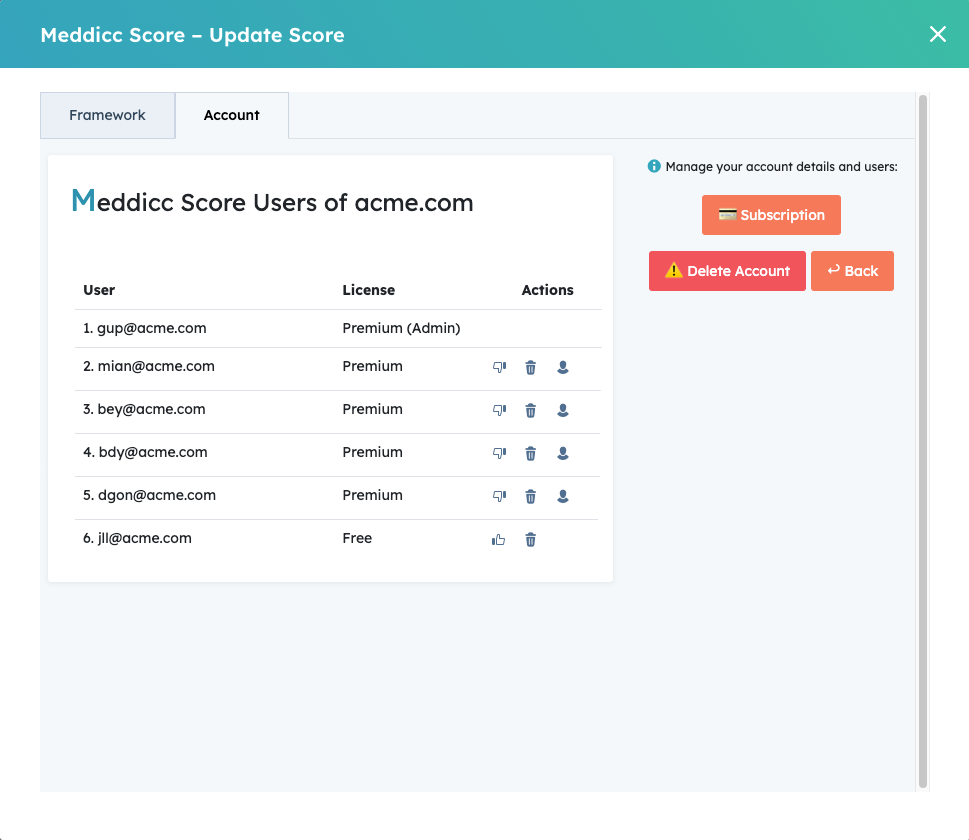
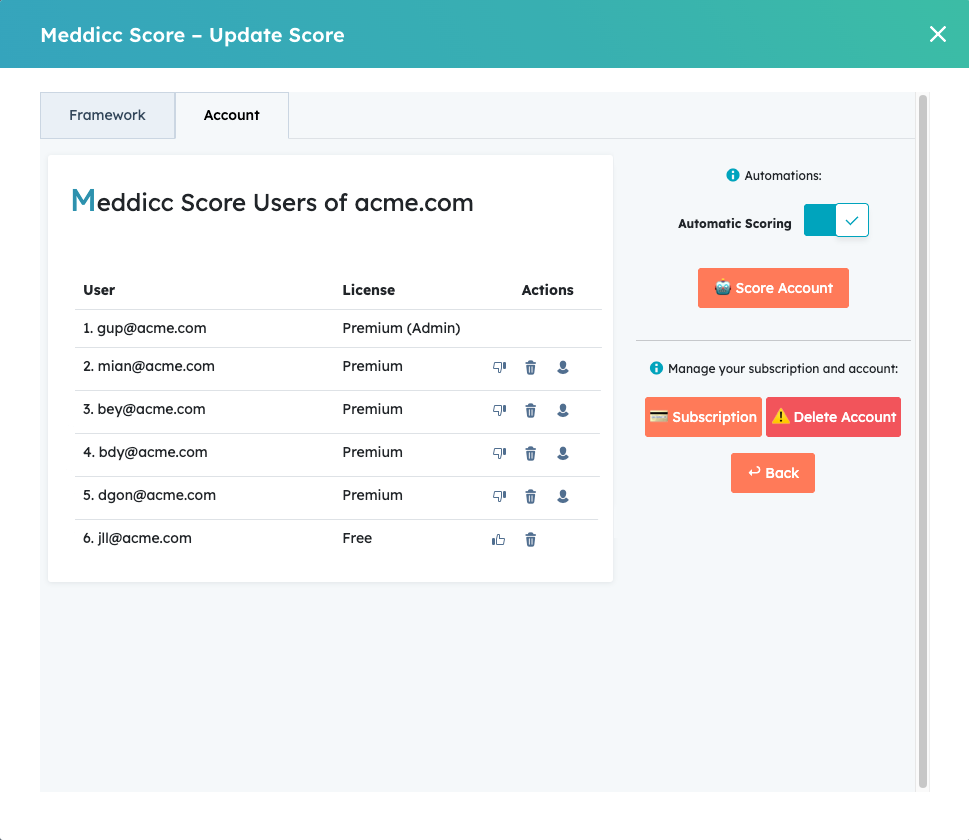
Automations

Changed region(s): [[0.6502, 0.1857, 0.9288, 0.3714], [0.6502, 0.4333, 0.9288, 0.5881]]

diff --git a/_includes/sidebar_resume.html b/_includes/sidebar_resume.html
@@ -3,31 +3,70 @@
   <ul>
     <li><a href="#start">Getting Started</a></li>
     <ul>
-      <li><a href="#connect-your-hubspot-account">1. Connect Your HubSpot Account</a></li>
-      <li><a href="#login-to-your-hubspot-account">2. Login to Your HubSpot Account</a></li>
-      <li><a href="#select-your-hubspot-account">3. Select Your HubSpot Account</a></li>
+      <li>
+        <a href="#connect-your-hubspot-account"
+          >1. Connect Your HubSpot Account</a
+        >
+      </li>
+      <li>
+        <a href="#login-to-your-hubspot-account"
+          >2. Login to Your HubSpot Account</a
+        >
+      </li>
+      <li>
+        <a href="#select-your-hubspot-account"
+          >3. Select Your HubSpot Account</a
+        >
+      </li>
       <li><a href="#confirm-permissions">4. Confirm Permissions</a></li>
     </ul>
     <li><a href="#using">Using the APP</a></li>
     <ul>
-      <li><a href="#access-from-sidebar">5. Access Meddicc Score from the HubSpot Sidebar</a></li>
+      <li>
+        <a href="#access-from-sidebar"
+          >5. Access Meddicc Score from the HubSpot Sidebar</a
+        >
+      </li>
       <li><a href="#begin-scoring">6. Begin Scoring</a></li>
       <li><a href="#change-framework">7. Change the Framework</a></li>
-      <li><a href="#editing-questions">8. Editing the framework questions and default framework</a></li>
+      <li>
+        <a href="#editing-questions"
+          >8. Editing the framework questions and default framework</a
+        >
+      </li>
       <li><a href="#manage-account">9. Manage your account</a></li>
-      <li><a href="#report-and-export">10. Report and Export</a></li>
-      <li><a href="#upgrade-to-premium">11. Upgrade to Premium</a></li>
-      <li><a href="#changeplan">12. Change my subscription plan</a></li>
+      <li><a href="#automations">10. Automations</a></li>
+
+      <li><a href="#report-and-export">11. Report and Export</a></li>
+      <li><a href="#upgrade-to-premium">12. Upgrade to Premium</a></li>
+      <li><a href="#changeplan">13. Change my subscription plan</a></li>
     </ul>
     <li><a href="#uninstalling">Uninstalling Meddicc Score</a></li>
-    <li><a href="#troubleshooting">Troubleshooting</a> </li>
+    <li><a href="#troubleshooting">Troubleshooting</a></li>
     <ul>
       <li><a href="#cannot-install-app">I can´t install the APP</a></li>
-      <li><a href="#i-cannot-see-score-as-a-custom-variable--the-score-in-hubspot-is-not-updated-automatically">Can't see Score property in HubSpot</a></li>
-      <li><a href="#the-ai-autofill-is-not-taking-information-from-my-emails">The AI Autofill is not taking information from my Emails</a></li>
-      <li><a href="#stage-report">The Stage is not correct on the report</a></li>
-      <li><a href="#how-can-add-a-discount-code">How can add a discount code</a></li>
-      <li><a href="#how-can-cancell-or-manage-my-subcription">Cancel or Change Subscription</a></li>
+      <li>
+        <a
+          href="#i-cannot-see-score-as-a-custom-variable--the-score-in-hubspot-is-not-updated-automatically"
+          >Can't see Score property in HubSpot</a
+        >
+      </li>
+      <li>
+        <a href="#the-ai-autofill-is-not-taking-information-from-my-emails"
+          >The AI Autofill is not taking information from my Emails</a
+        >
+      </li>
+      <li>
+        <a href="#stage-report">The Stage is not correct on the report</a>
+      </li>
+      <li>
+        <a href="#how-can-add-a-discount-code">How can add a discount code</a>
+      </li>
+      <li>
+        <a href="#how-can-cancell-or-manage-my-subcription"
+          >Cancel or Change Subscription</a
+        >
+      </li>
     </ul>
   </ul>
 </div>

diff --git a/_layouts/landing.html b/_layouts/landing.html
@@ -482,6 +482,7 @@
               <ul>
                 <li><span class="price-text-blue">&#10003;</span> View Meddicc Score</li>
                 <li><span class="price-text-blue">&#10003;</span> Unlimited deals with Score</li>
+                <li><span class="price-text-blue">&#10003;</span> Automations</li>
               </ul>
             </div>
           </div>
@@ -502,6 +503,7 @@
               <ul>
                 <li><span class="price-text-blue">&#10003;</span> View Meddicc Score</li>
                 <li><span class="price-text-blue">&#10003;</span> Unlimited deals with Score</li>
+                <li><span class="price-text-blue">&#10003;</span> Automations</li>
               </ul>
               <p class="text-center pb-1"> More than 10 users? <a href="mailto:meddiccscore@gmail.com" class="mt-1 price-contact">Contact us </a></p>
 

diff --git a/_posts/2023-01-01-setup-guide.md b/_posts/2023-01-01-setup-guide.md
@@ -161,16 +161,38 @@ Note: Comments to engagements are not gathered since they are not available thro
 <ul>
   <li>On the right side, there are different options:
     <ul>
-      <li><strong>Upgrade (only for Free users):</strong> Upgrade to premium plans.</li>
-      <li><strong>Manage Subscription (only for Admin paid users):</strong> Redirects to the Customer Portal where the user can update or cancel your paid subscription, or send a email to support is your subcription is Corporate. <a href="#how-can-cancell-or-manage-my-subcription">More information.</a></li>
-      <li><strong>Delete Account:</strong> Permanently deletes all MeddiccScore information (NOT the HubSpot Account) including deals, users, and account data. This action is irreversible, so be sure before proceeding. Please <a href="#how-can-cancell-or-manage-my-subcription">cancel your paid subscription</a> (if any) before deleting the account. Type "Delete Account" to confirm.</li>
+      <li><strong>Upgrade (Free users only):</strong> Upgrade your account to access premium features.</li>
+      <li><strong>Manage Subscription (Admin, paid users only):</strong> Opens the Customer Portal to update or cancel your subscription. For Corporate subscriptions, contact support by email. <a href="#how-can-cancell-or-manage-my-subcription">More information.</a></li>
+      <li><strong>Delete Account:</strong> Permanently deletes all MeddiccScore data (not your HubSpot account), including deals, users, and account information. This action cannot be undone. Please <a href="#how-can-cancell-or-manage-my-subcription">cancel any paid subscription</a> before deleting your account. Type "Delete Account" to confirm.</li>
+      <li><strong>Automations (Premium users only):</strong> Automate the scoring process. See the next section for details.</li>
     </ul>
   </li>
 </ul>
 
 <hr>
 
-<h4 class="pt-6-m mb-3 text-primary" id="report-and-export">10. Report and Export</h4>
+<h4 class="pt-6-m mb-3 text-primary" id="automations">10. Automations (Only Premium Admins)</h4>
+
+<ul>
+  <li>Automations help you streamline and automate the scoring process. They are only available for Premium users.</li>
+
+  <p class="text-center"><img src="../../assets/images/guide911.png" alt="Editing" class="my-3 w-50 border border-3 border-primary rounded rounded-3"></p>
+  <li>
+    <strong>Automatic Scoring:</strong> When enabled, this feature sets up a workflow so that every time a new engagement (Note, Meeting, Task, or Call) is logged in HubSpot, the Meddicc Score form is automatically re-filled with the latest information and rescored. Locked fields will not be changed, but unlocked fields and the overall score may be updated. Please note the following limitations due to the HubSpot API:
+    <ul>
+      <li>The Meddicc Card in the sidebar will not refresh automatically; it updates only when the entire deal is refreshed.</li>
+      <li>Automatic scoring is not triggered if an engagement is updated or deleted—only when a new engagement is created.</li>
+      <li>Automatic scoring does not trigger for new emails; it works only for Meetings, Calls, Tasks, or Notes.</li>
+    </ul>
+  </li>
+  <li>
+    <strong>Score Account:</strong> This option will trigger scoring for <b>all deals</b> in your account. <b>All previous information and scores will be overwritten, and this action cannot be undone.</b> The process may take several minutes, and the Admin user will receive an email notification once it is complete.
+  </li>
+</ul>
+
+<hr>
+
+<h4 class="pt-6-m mb-3 text-primary" id="report-and-export">11. Report and Export</h4>
 
 <ul>
   <li>Clicking on Report, a full account pipeline summary can be found.</li>
@@ -189,14 +211,14 @@ Note: Comments to engagements are not gathered since they are not available thro
 
 <hr>
 
-<h4 class="pt-6-m mb-3 text-primary" id="upgrade-to-premium">11. Upgrade to Premium</h4>
+<h4 class="pt-6-m mb-3 text-primary" id="upgrade-to-premium">12. Upgrade to Premium</h4>
 
 <p>If you like Meddicc Score and want to use it for more than 5 deals, you can upgrade easily from the own app. Click on “Upgrade Now” and you will go to a checkout powered by Stripe.</p>
 
 <p class="text-center"><img src="../../assets/images/guide5.png" alt="Ugrade" class="my-3 border border-3 border-primary rounded rounded-3"></p>
 <hr>
 
-<h4 class="pt-6-m mb-3 text-primary" id="changeplan">12. Change my subscription plan</h4>
+<h4 class="pt-6-m mb-3 text-primary" id="changeplan">13. Change the subscription plan</h4>
 
 <p>If you're already enjoying the premium benefits of Meddicc Score but want to upgrade to a Team plan or switch to a yearly subscription to unlock significant savings, you can easily make the change through the Customer Portal. Take advantage of these exclusive discounts today and maximize your Meddicc Score experience!</p>
 
